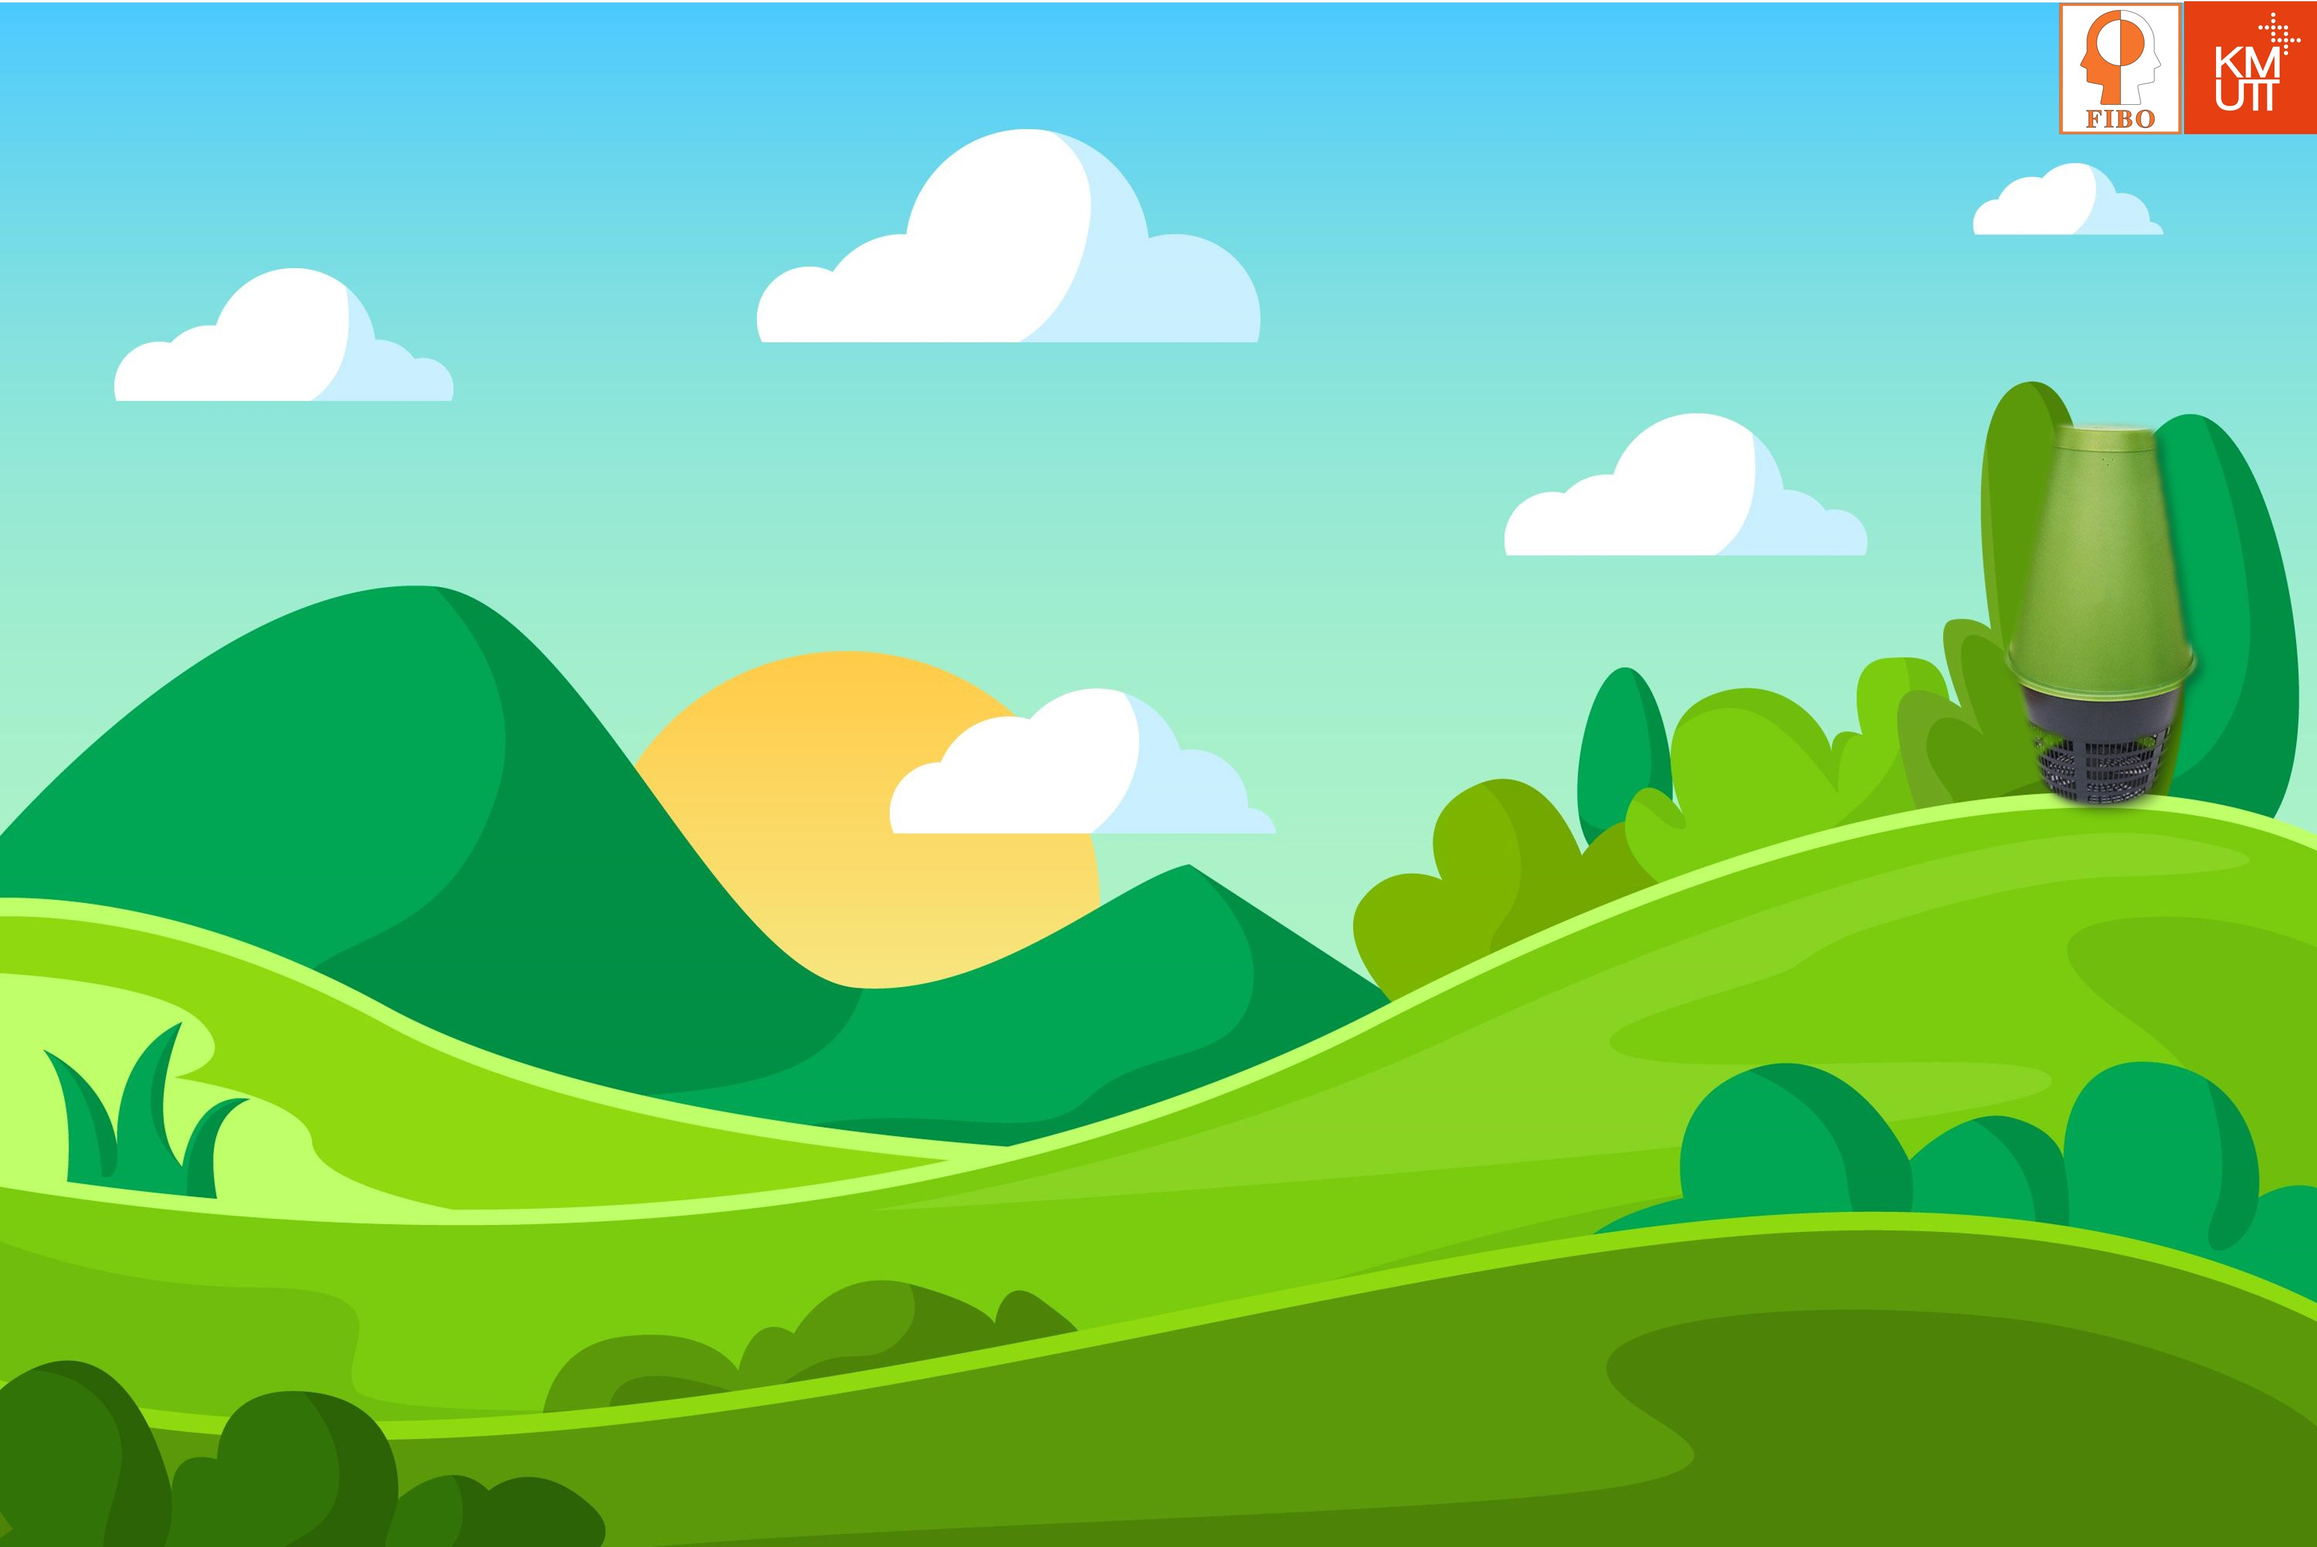
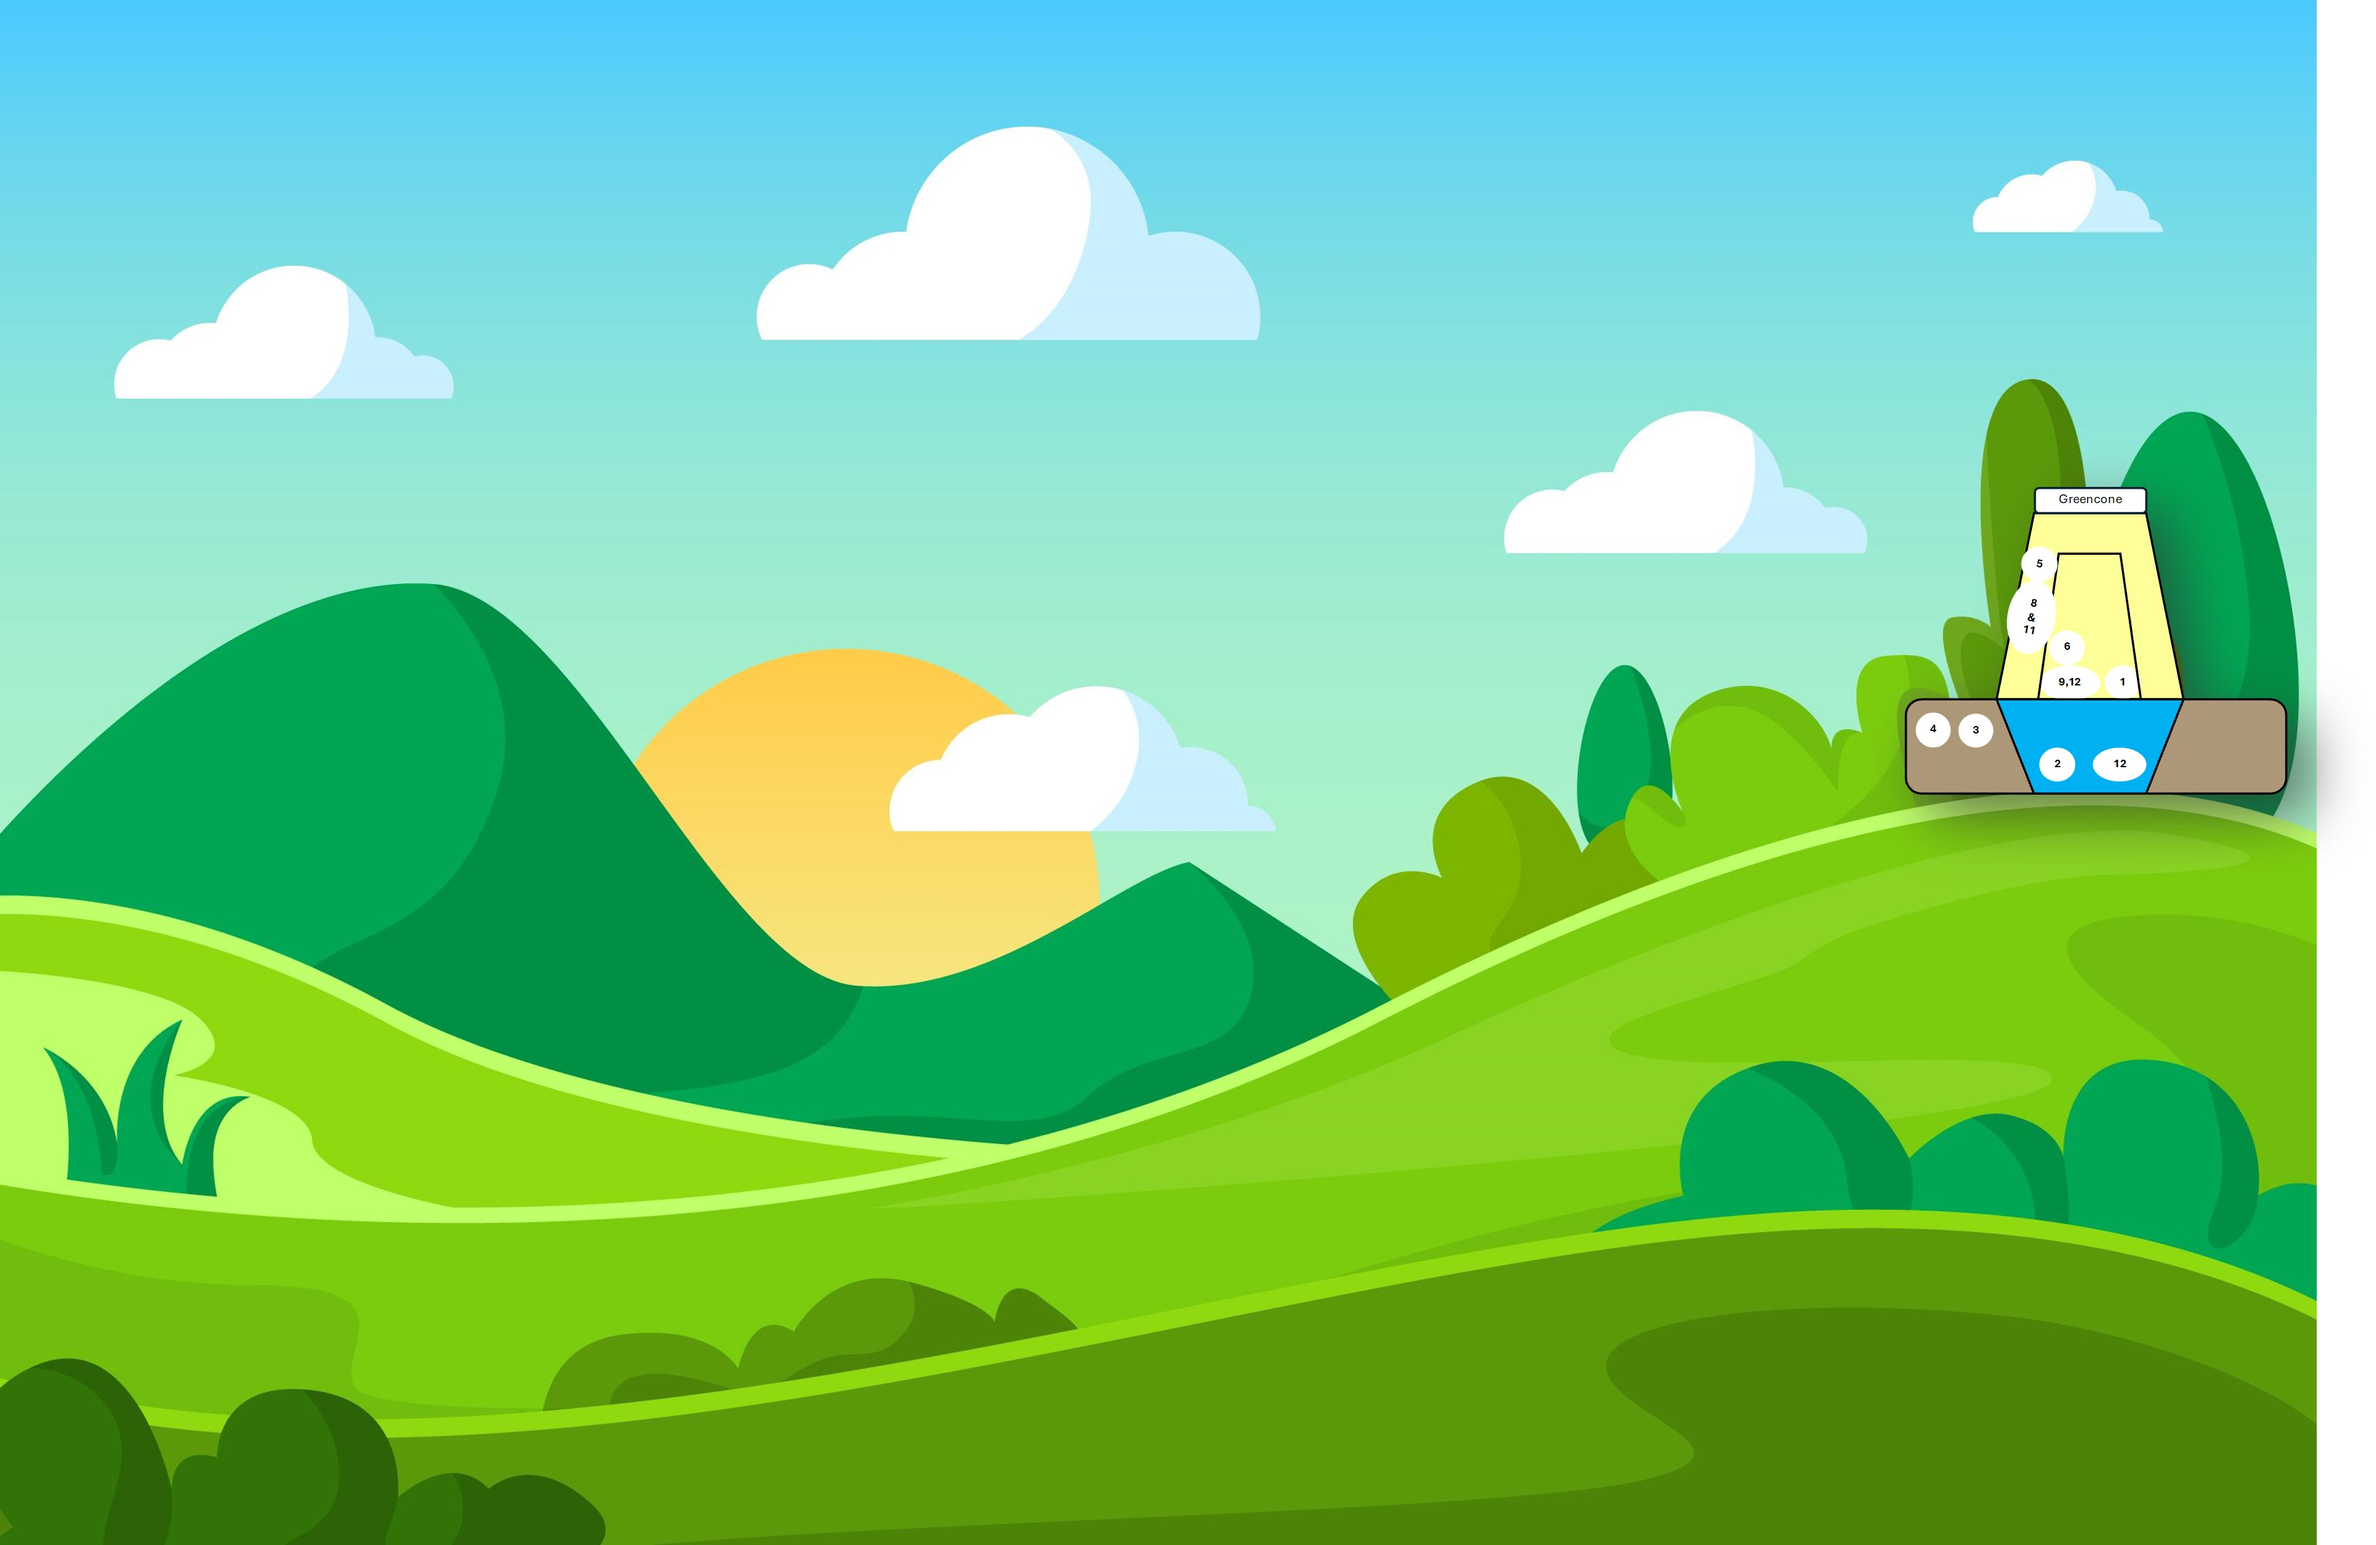
update

diff --git a/index.html b/index.html
@@ -565,7 +565,7 @@
                     },
                     y: {
                         min: 0, // Set the minimum value for y-axis
-                        max: 100000, // Set the maximum value for y-axis
+                        max: 50000, // Set the maximum value for y-axis
                         title: {
                             display: true, // Display the y-axis title
                             text: 'Y-Axis Legend' // The text for the y-axis title

diff --git a/style_home.css b/style_home.css
@@ -2,7 +2,7 @@ body {
     font-family: Arial, sans-serif;
     margin: 0;
     padding: 0;
-    background-image: url('4283832.jpg');
+    background-image: url('pic3.jpg');
     background-repeat: no-repeat;
     background-attachment: fixed;
     background-size: cover;
